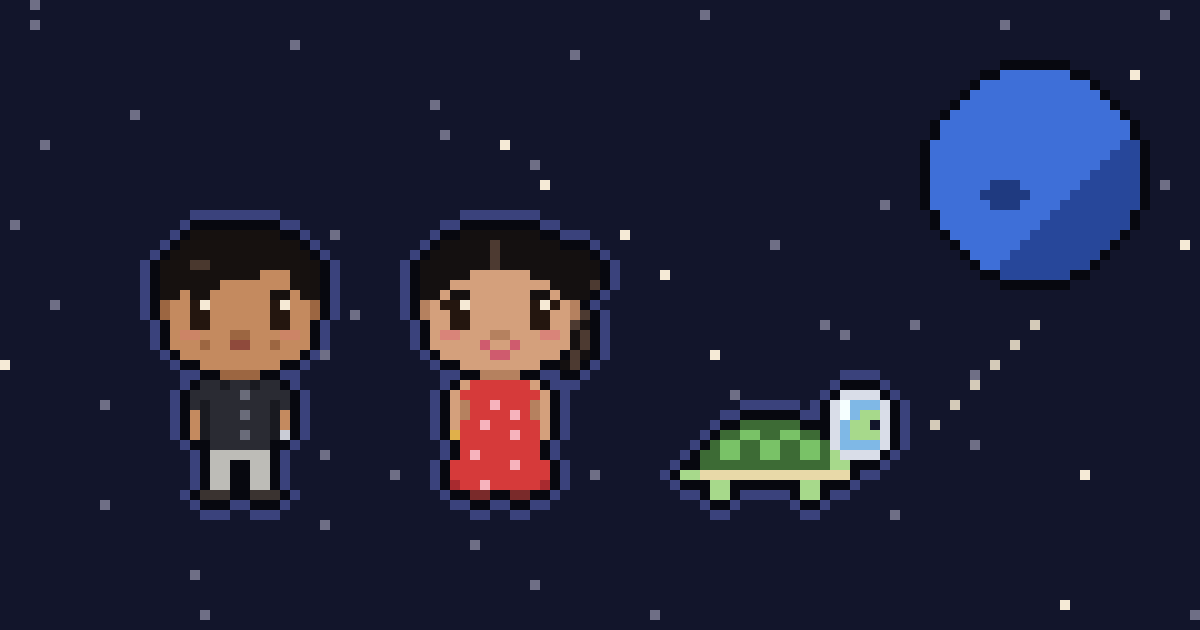
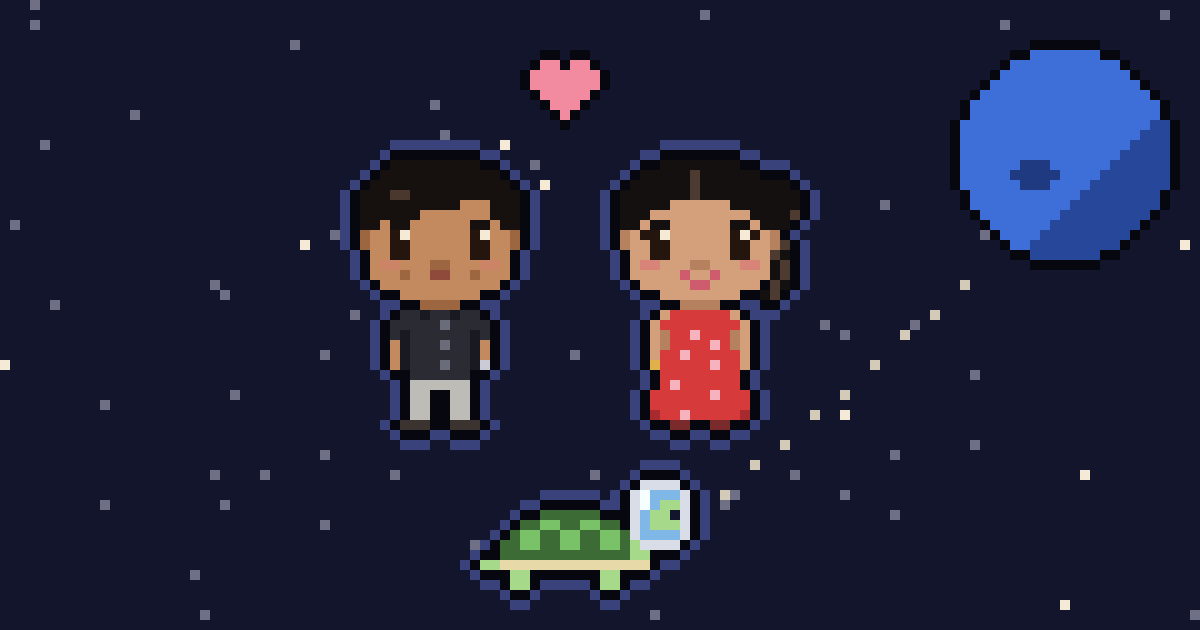
Centra la imagen de vista previa

diff --git a/tools/generate-images.js b/tools/generate-images.js
@@ -6,6 +6,7 @@ import { fileURLToPath } from 'node:url';
 import { PEOPLE } from '../js/content/people.js';
 import { createEmptyGrid, paintGrid } from '../js/pixel-art/sprite-grid.js';
 import { buildCharacterGrid } from '../js/sprites/character-sprite.js';
+import { buildHeartGrid } from '../js/sprites/heart-sprite.js';
 import { buildPlanetGrid } from '../js/sprites/planet-sprite.js';
 import { buildTurtleFrames } from '../js/sprites/turtle-sprite.js';
 import { createSeededRandom } from '../js/utils/random.js';
@@ -19,6 +20,7 @@ const COLORS = {
   star: '#f5ead6',
   dimStar: '#6f6f86',
   path: '#d4cab8',
+  heart: '#f28aa0',
 };
 
 // 120x63 sprite pixels scaled by 10 gives the 1200x630 size link previews expect.
@@ -35,15 +37,19 @@ function buildPreviewGrid() {
     grid[y][x] = random() > 0.7 ? COLORS.star : COLORS.dimStar;
   }
 
-  grid = paintGrid(grid, buildPlanetGrid('neptune'), 92, 6);
-  grid = paintGrid(grid, buildCharacterGrid(PEOPLE.sender), 12, 20);
-  grid = paintGrid(grid, buildCharacterGrid(PEOPLE.recipient), 38, 20);
-  grid = paintGrid(grid, buildTurtleFrames()[0], 66, 37);
+  // WhatsApp's small preview crops a centered square (columns 29 to 91), so the couple and
+  // the turtle stay inside it; Neptune sits outside and only shows in the large preview.
+  grid = paintGrid(grid, buildPlanetGrid('neptune'), 95, 4);
 
   // Dotted path from the turtle up to Neptune.
-  for (let step = 0; step <= 5; step += 1) {
-    grid[42 - step * 2][93 + step * 2] = COLORS.path;
+  for (let step = 0; step <= 8; step += 1) {
+    grid[49 - Math.round(step * 2.6)][72 + step * 3] = COLORS.path;
   }
+
+  grid = paintGrid(grid, buildCharacterGrid(PEOPLE.sender), 32, 13);
+  grid = paintGrid(grid, buildCharacterGrid(PEOPLE.recipient), 58, 13);
+  grid = paintGrid(grid, buildHeartGrid(COLORS.heart), 52, 5);
+  grid = paintGrid(grid, buildTurtleFrames()[0], 46, 46);
 
   return grid;
 }
